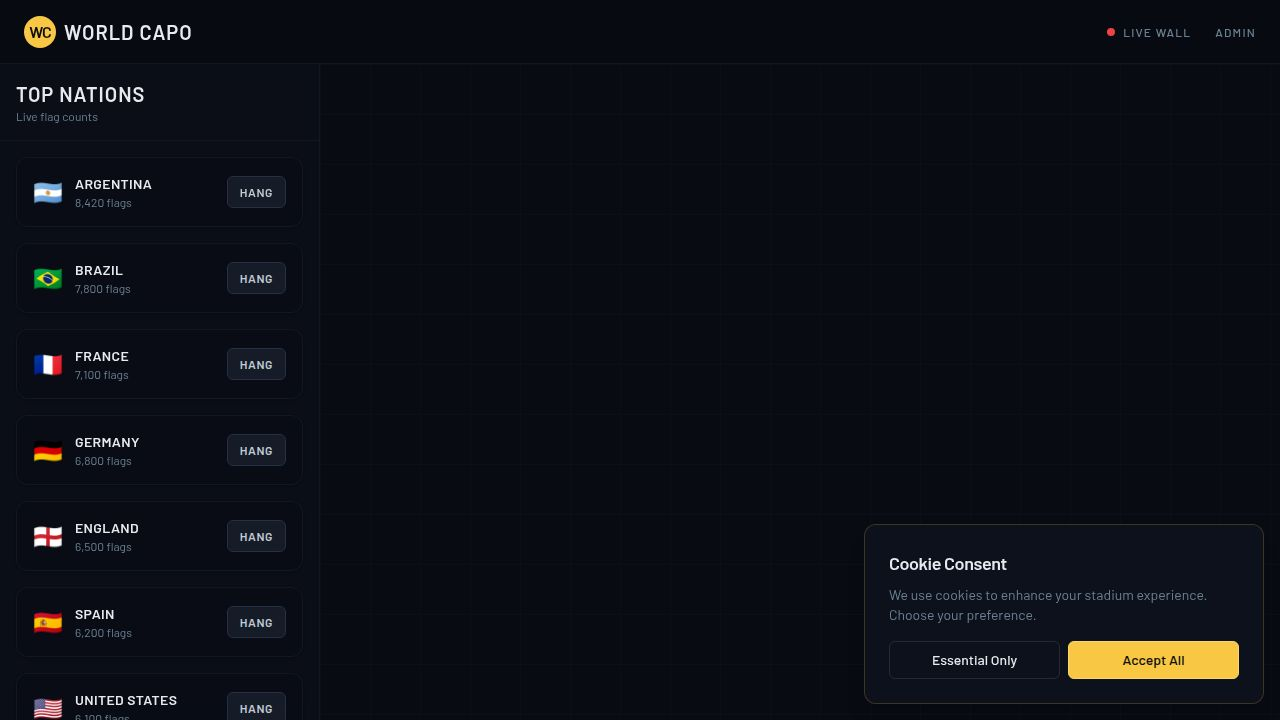
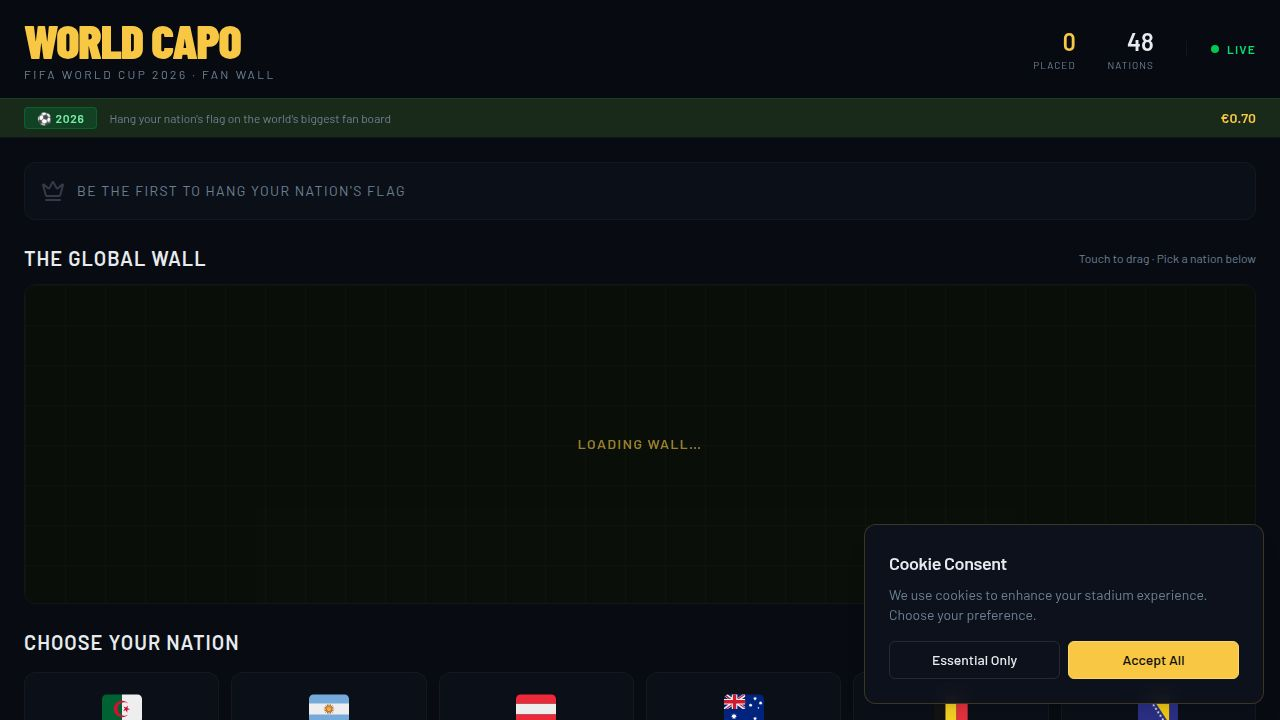
Improve mobile layout and touch interactions for flag placement
Refactor `useListFlags` and `useGetFlagCounts` to use `useQuery` with generated options, update touch event handlers for drag-and-pan functionality, and adjust UI elements for better mobile responsiveness.

Replit-Commit-Author: Agent
Replit-Commit-Session-Id: d5a62815-4225-43c3-928d-078c3aafcb92
Replit-Commit-Checkpoint-Type: full_checkpoint
Replit-Commit-Event-Id: ab072174-8499-493c-b30e-8c5da851caa7
Replit-Commit-Screenshot-Url: https://storage.googleapis.com/screenshot-production-us-central1/233e95dc-ab2e-4196-aac1-02a5d20f810b/d5a62815-4225-43c3-928d-078c3aafcb92/zGgqlOL
Replit-Helium-Checkpoint-Created: true

diff --git a/artifacts/world-capo/src/pages/Home.tsx b/artifacts/world-capo/src/pages/Home.tsx
@@ -1,30 +1,22 @@
-import { useState, useRef, useEffect, useMemo } from "react";
-import { useListFlags, useGetFlagCounts } from "@workspace/api-client-react";
+import { useState, useRef, useMemo, useCallback } from "react";
+import { useQuery } from "@tanstack/react-query";
+import { getListFlagsQueryOptions, getGetFlagCountsQueryOptions } from "@workspace/api-client-react";
 import { TEAMS } from "@/lib/teams";
 import { CookieConsent } from "@/components/CookieConsent";
 import { FlagImg } from "@/components/FlagImg";
 import { Button } from "@/components/ui/button";
 import { Link } from "wouter";
 import { motion } from "framer-motion";
-import { useToast } from "@/hooks/use-toast";
 import { Crown } from "lucide-react";
 
 export default function Home() {
-  const { data: flags, isLoading: loadingFlags } = useListFlags({ query: { refetchInterval: 10_000 } });
-  const { data: counts } = useGetFlagCounts({ query: { refetchInterval: 10_000 } });
-  const { toast } = useToast();
+  const { data: flags, isLoading: loadingFlags } = useQuery({ ...getListFlagsQueryOptions(), refetchInterval: 10_000 });
+  const { data: counts } = useQuery({ ...getGetFlagCountsQueryOptions(), refetchInterval: 10_000 });
 
   const [pan, setPan] = useState({ x: 0, y: 0 });
   const [isDragging, setIsDragging] = useState(false);
   const dragStart = useRef({ x: 0, y: 0 });
-
-  useEffect(() => {
-    const pendingPayment = sessionStorage.getItem("pending_flag_payment");
-    if (pendingPayment) {
-      toast({ title: "🎉 Flag placed!", description: "Your flag is now live on the global wall!" });
-      sessionStorage.removeItem("pending_flag_payment");
-    }
-  }, [toast]);
+  const lastTouch = useRef({ x: 0, y: 0 });
 
   const teamsWithCounts = useMemo(() => {
     return TEAMS.map(team => {
@@ -36,6 +28,7 @@ export default function Home() {
   const totalPlaced = useMemo(() => teamsWithCounts.reduce((s, t) => s + t.totalCount, 0), [teamsWithCounts]);
   const leader = teamsWithCounts.find(t => t.totalCount > 0);
 
+  // Mouse drag
   const handleMouseDown = (e: React.MouseEvent) => {
     setIsDragging(true);
     dragStart.current = { x: e.clientX - pan.x, y: e.clientY - pan.y };
@@ -46,95 +39,115 @@ export default function Home() {
   };
   const handleMouseUp = () => setIsDragging(false);
 
+  // Touch drag
+  const handleTouchStart = useCallback((e: React.TouchEvent) => {
+    const t = e.touches[0];
+    setIsDragging(true);
+    lastTouch.current = { x: t.clientX, y: t.clientY };
+    dragStart.current = { x: t.clientX - pan.x, y: t.clientY - pan.y };
+  }, [pan]);
+  const handleTouchMove = useCallback((e: React.TouchEvent) => {
+    e.preventDefault();
+    const t = e.touches[0];
+    setPan({ x: t.clientX - dragStart.current.x, y: t.clientY - dragStart.current.y });
+    lastTouch.current = { x: t.clientX, y: t.clientY };
+  }, []);
+  const handleTouchEnd = useCallback(() => setIsDragging(false), []);
+
   return (
     <div className="min-h-screen bg-background text-foreground font-sans">
 
       {/* ── TOP HEADER ─────────────────────────────────────────── */}
       <header className="border-b border-border/40 bg-background/95 backdrop-blur sticky top-0 z-40">
-        <div className="max-w-7xl mx-auto px-6 py-4 flex items-end justify-between">
-          <div>
-            <h1 className="text-5xl font-black uppercase tracking-tight leading-none text-primary" style={{ fontFamily: "'Barlow Condensed', sans-serif" }}>
-              World Capo
-            </h1>
-            <p className="text-xs text-muted-foreground uppercase tracking-[0.2em] mt-0.5">
-              FIFA World Cup 2026 · Fan Wall
-            </p>
-          </div>
-          <div className="flex items-center gap-8">
-            <div className="text-right">
-              <div className="text-2xl font-black text-primary tabular-nums">{totalPlaced.toLocaleString()}</div>
-              <div className="text-[10px] text-muted-foreground uppercase tracking-widest">Total Placed</div>
+        <div className="max-w-7xl mx-auto px-4 sm:px-6 py-3 sm:py-4">
+          <div className="flex items-center justify-between gap-2">
+            {/* Logo */}
+            <div className="min-w-0">
+              <h1 className="text-3xl sm:text-5xl font-black uppercase tracking-tight leading-none text-primary" style={{ fontFamily: "'Barlow Condensed', sans-serif" }}>
+                World Capo
+              </h1>
+              <p className="text-[9px] sm:text-xs text-muted-foreground uppercase tracking-[0.2em] mt-0.5 hidden sm:block">
+                FIFA World Cup 2026 · Fan Wall
+              </p>
             </div>
-            <div className="text-right">
-              <div className="text-2xl font-black text-foreground">48</div>
-              <div className="text-[10px] text-muted-foreground uppercase tracking-widest">Nations</div>
-            </div>
-            <div className="flex items-center gap-2 pl-6 border-l border-border/50">
-              <span className="relative flex h-2 w-2">
-                <span className="animate-ping absolute inline-flex h-full w-full rounded-full bg-green-500 opacity-75" />
-                <span className="relative inline-flex rounded-full h-2 w-2 bg-green-500" />
-              </span>
-              <span className="text-xs font-bold text-green-400 uppercase tracking-widest">Live</span>
+
+            {/* Stats */}
+            <div className="flex items-center gap-3 sm:gap-8 shrink-0">
+              <div className="text-right">
+                <div className="text-lg sm:text-2xl font-black text-primary tabular-nums">{totalPlaced.toLocaleString()}</div>
+                <div className="text-[8px] sm:text-[10px] text-muted-foreground uppercase tracking-widest">Placed</div>
+              </div>
+              <div className="text-right hidden xs:block sm:block">
+                <div className="text-lg sm:text-2xl font-black text-foreground">48</div>
+                <div className="text-[8px] sm:text-[10px] text-muted-foreground uppercase tracking-widest">Nations</div>
+              </div>
+              <div className="flex items-center gap-1.5 sm:gap-2 pl-3 sm:pl-6 border-l border-border/50">
+                <span className="relative flex h-2 w-2">
+                  <span className="animate-ping absolute inline-flex h-full w-full rounded-full bg-green-500 opacity-75" />
+                  <span className="relative inline-flex rounded-full h-2 w-2 bg-green-500" />
+                </span>
+                <span className="text-[10px] sm:text-xs font-bold text-green-400 uppercase tracking-widest">Live</span>
+              </div>
             </div>
           </div>
         </div>
 
         {/* Announcement bar */}
-        <div className="bg-[#1a2a1a] border-t border-green-900/50 px-6 py-2 flex items-center gap-4 text-sm">
-          <span className="bg-green-900/60 border border-green-700/50 text-green-300 rounded px-3 py-0.5 text-xs font-bold uppercase tracking-wider shrink-0 flex items-center gap-2">
-            ⚽ USA · Canada · Mexico 2026
+        <div className="bg-[#1a2a1a] border-t border-green-900/50 px-4 sm:px-6 py-2 flex items-center gap-3 text-sm">
+          <span className="bg-green-900/60 border border-green-700/50 text-green-300 rounded px-2 sm:px-3 py-0.5 text-[10px] sm:text-xs font-bold uppercase tracking-wider shrink-0">
+            ⚽ 2026
           </span>
-          <span className="text-muted-foreground">Hang your nation's flag on the world's biggest fan board</span>
-          <span className="text-primary font-bold ml-auto shrink-0">only €0.70 per flag</span>
+          <span className="text-muted-foreground text-xs truncate">Hang your nation's flag on the world's biggest fan board</span>
+          <span className="text-primary font-bold ml-auto shrink-0 text-xs sm:text-sm">€0.70</span>
         </div>
       </header>
 
-      <main className="max-w-7xl mx-auto px-6 py-6 space-y-6">
+      <main className="max-w-7xl mx-auto px-4 sm:px-6 py-4 sm:py-6 space-y-4 sm:space-y-6">
 
         {/* ── CURRENT LEADER ─────────────────────────────────────── */}
         {leader ? (
-          <div className="bg-card/60 border border-border/50 rounded-xl p-5 flex items-center justify-between">
-            <div className="flex items-center gap-4">
-              <Crown className="w-8 h-8 text-primary fill-primary/30" />
-              <FlagImg emoji={leader.flag} size={48} alt={leader.name} />
-              <div>
-                <div className="text-[10px] text-muted-foreground uppercase tracking-widest mb-0.5">Current Leader</div>
-                <div className="text-2xl font-black uppercase tracking-wide">{leader.name}</div>
+          <div className="bg-card/60 border border-border/50 rounded-xl p-4 sm:p-5 flex items-center justify-between gap-3">
+            <div className="flex items-center gap-3 sm:gap-4 min-w-0">
+              <Crown className="w-6 h-6 sm:w-8 sm:h-8 text-primary fill-primary/30 shrink-0" />
+              <FlagImg emoji={leader.flag} size={36} alt={leader.name} />
+              <div className="min-w-0">
+                <div className="text-[9px] sm:text-[10px] text-muted-foreground uppercase tracking-widest mb-0.5">Current Leader</div>
+                <div className="text-lg sm:text-2xl font-black uppercase tracking-wide truncate">{leader.name}</div>
               </div>
             </div>
-            <div className="text-right">
-              <div className="text-3xl font-black text-primary tabular-nums">{leader.totalCount.toLocaleString()} flags</div>
+            <div className="text-right shrink-0">
+              <div className="text-xl sm:text-3xl font-black text-primary tabular-nums">{leader.totalCount.toLocaleString()} <span className="text-sm sm:text-base">flags</span></div>
             </div>
           </div>
         ) : (
-          <div className="bg-card/60 border border-border/50 rounded-xl p-5 flex items-center gap-4 text-muted-foreground">
-            <Crown className="w-7 h-7 opacity-40" />
-            <span className="text-sm uppercase tracking-widest">Be the first to hang your nation's flag and claim the top spot</span>
+          <div className="bg-card/60 border border-border/50 rounded-xl p-4 flex items-center gap-3 text-muted-foreground">
+            <Crown className="w-6 h-6 opacity-40 shrink-0" />
+            <span className="text-xs sm:text-sm uppercase tracking-widest">Be the first to hang your nation's flag</span>
           </div>
         )}
 
         {/* ── THE GLOBAL WALL ─────────────────────────────────────── */}
         <div>
-          <div className="flex items-center justify-between mb-3">
-            <h2 className="text-xl font-black uppercase tracking-wider">The Global Wall</h2>
-            <span className="text-xs text-muted-foreground">Drag to explore · Click a nation below to hang your flag</span>
+          <div className="flex items-center justify-between mb-3 gap-2">
+            <h2 className="text-base sm:text-xl font-black uppercase tracking-wider">The Global Wall</h2>
+            <span className="text-[10px] sm:text-xs text-muted-foreground shrink-0">Touch to drag · Pick a nation below</span>
           </div>
 
           <div
-            className="relative overflow-hidden rounded-xl border border-border/40 bg-[#0a0f0a] cursor-grab active:cursor-grabbing"
-            style={{ height: 480 }}
+            className="relative overflow-hidden rounded-xl border border-border/40 bg-[#0a0f0a] cursor-grab active:cursor-grabbing touch-none select-none"
+            style={{ height: 320 }}
             onMouseDown={handleMouseDown}
             onMouseMove={handleMouseMove}
             onMouseUp={handleMouseUp}
             onMouseLeave={handleMouseUp}
+            onTouchStart={handleTouchStart}
+            onTouchMove={handleTouchMove}
+            onTouchEnd={handleTouchEnd}
           >
-            {/* Grid background */}
             <div
               className="absolute inset-0 opacity-10 pointer-events-none"
               style={{ backgroundImage: 'linear-gradient(#2a4a2a 1px, transparent 1px), linear-gradient(90deg, #2a4a2a 1px, transparent 1px)', backgroundSize: '40px 40px' }}
             />
-
-            {/* 2000×1500 canvas */}
             <div
               className="absolute"
               style={{
@@ -166,15 +179,14 @@ export default function Home() {
                       style={{ left: flag.x, top: flag.y }}
                       title={team.name}
                     >
-                      <FlagImg emoji={team.flag} size={36} alt={team.name} style={{ filter: "drop-shadow(0 2px 6px rgba(0,0,0,0.9))" }} />
+                      <FlagImg emoji={team.flag} size={32} alt={team.name} style={{ filter: "drop-shadow(0 2px 6px rgba(0,0,0,0.9))" }} />
                     </motion.div>
                   );
                 })
               )}
             </div>
-
-            <div className="absolute bottom-4 right-4 pointer-events-none">
-              <div className="bg-black/60 backdrop-blur px-3 py-1.5 rounded-full border border-white/10 text-xs text-muted-foreground uppercase tracking-widest">
+            <div className="absolute bottom-3 right-3 pointer-events-none">
+              <div className="bg-black/60 backdrop-blur px-2.5 py-1 rounded-full border border-white/10 text-[10px] text-muted-foreground uppercase tracking-widest">
                 Drag to explore
               </div>
             </div>
@@ -183,8 +195,37 @@ export default function Home() {
 
         {/* ── NATIONS GRID ──────────────────────────────────────────── */}
         <div>
-          <h2 className="text-xl font-black uppercase tracking-wider mb-4">Nations</h2>
-          <div className="grid grid-cols-2 sm:grid-cols-3 md:grid-cols-4 lg:grid-cols-6 gap-3">
+          <h2 className="text-base sm:text-xl font-black uppercase tracking-wider mb-3 sm:mb-4">
+            Choose Your Nation
+          </h2>
+
+          {/* Mobile: list rows. Desktop: grid cards */}
+          <div className="flex flex-col sm:hidden gap-2">
+            {teamsWithCounts.map((team, index) => (
+              <motion.div
+                key={team.id}
+                initial={{ opacity: 0, x: -10 }}
+                animate={{ opacity: 1, x: 0 }}
+                transition={{ delay: index * 0.01 }}
+              >
+                <Link href={`/checkout/${team.id}`}>
+                  <div className="bg-card/60 border border-border/50 active:border-primary/60 active:bg-card rounded-xl px-4 py-3 flex items-center gap-3">
+                    <FlagImg emoji={team.flag} size={36} alt={team.name} />
+                    <div className="flex-1 min-w-0">
+                      <div className="font-bold text-sm uppercase tracking-wide truncate">{team.name}</div>
+                      <div className="text-xs text-muted-foreground">{team.totalCount} flags placed</div>
+                    </div>
+                    <Button size="sm" className="h-8 px-4 text-xs uppercase tracking-wider font-bold shrink-0">
+                      Hang Flag
+                    </Button>
+                  </div>
+                </Link>
+              </motion.div>
+            ))}
+          </div>
+
+          {/* Desktop grid */}
+          <div className="hidden sm:grid grid-cols-3 md:grid-cols-4 lg:grid-cols-6 gap-3">
             {teamsWithCounts.map((team, index) => (
               <motion.div
                 key={team.id}